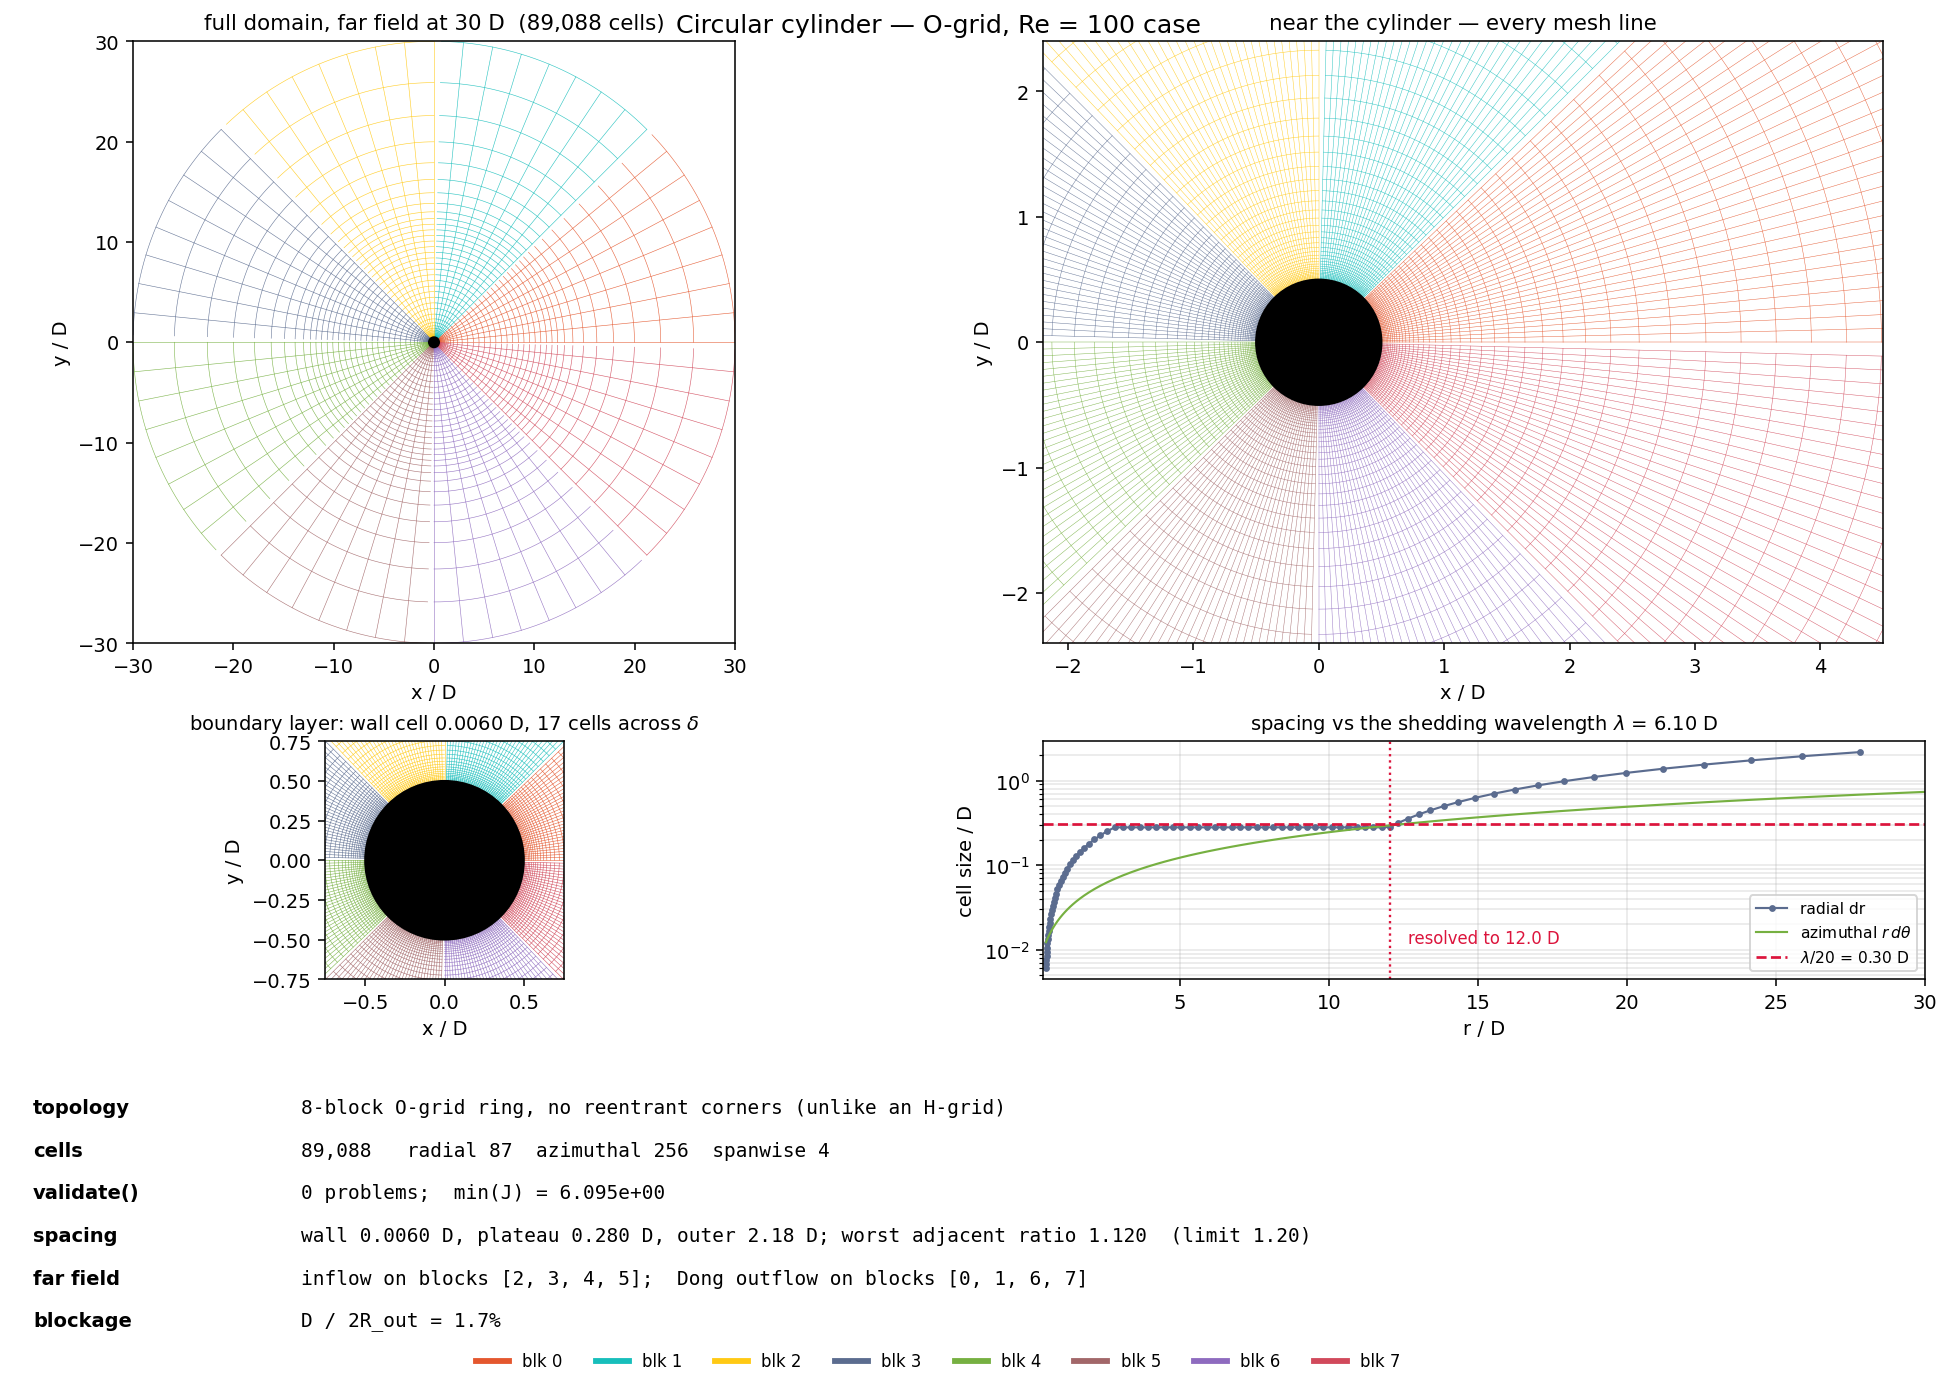
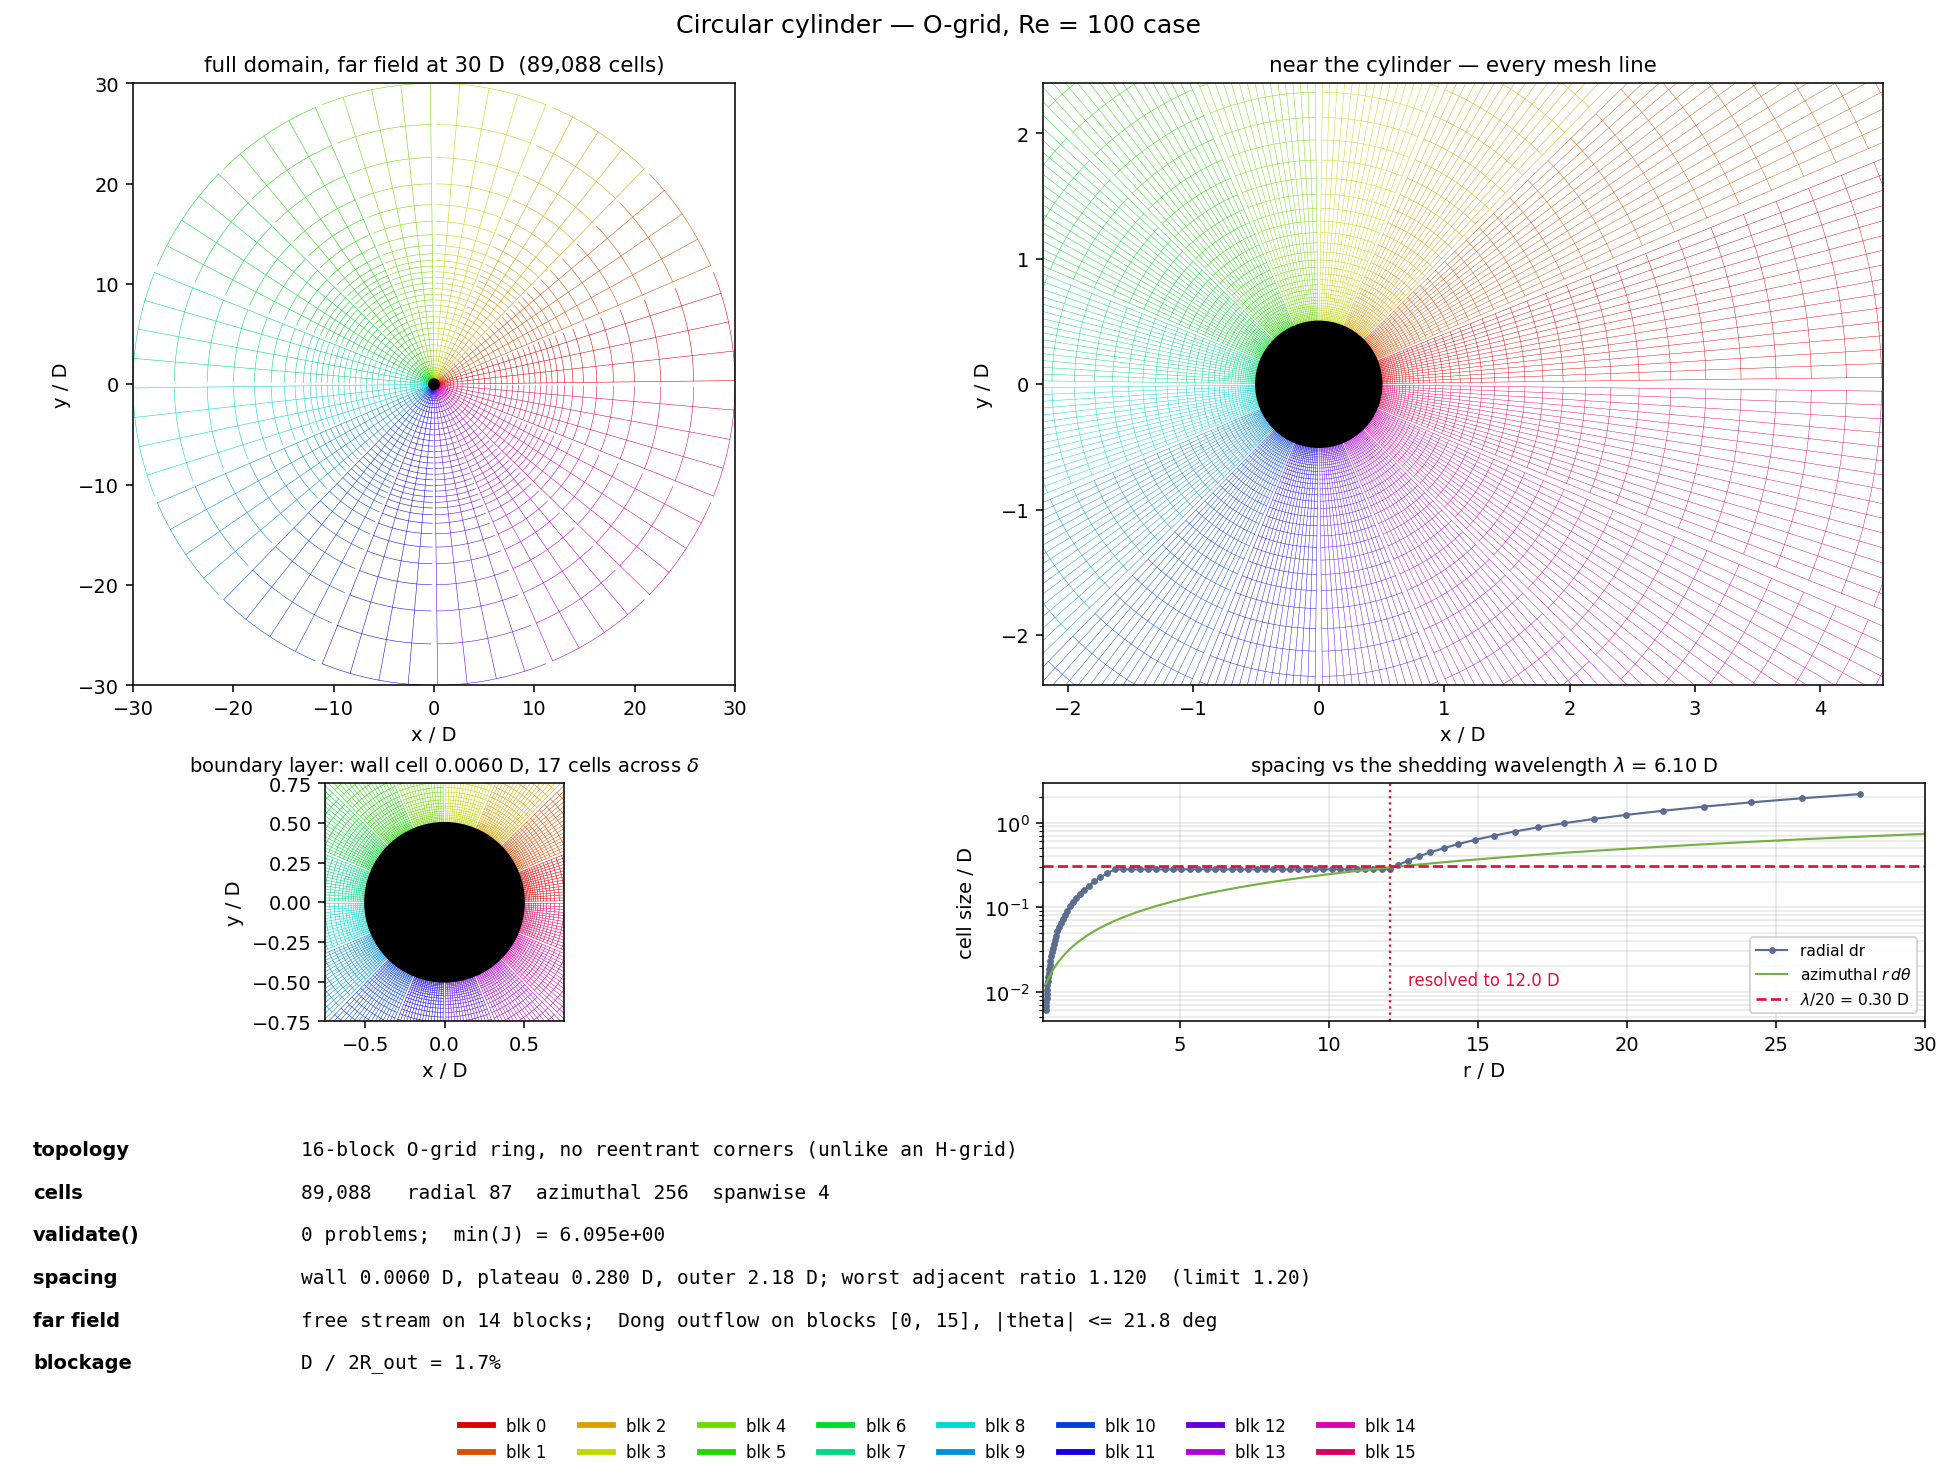
Grid figure for the 16-block decomposition, with the outflow arc measured on it
NBLK 8 -> 16 to match the new default, and the far-field row now reports the
measured arc -- Dong outflow on blocks [0, 15], |theta| <= 21.8 deg -- rather
than only listing block numbers, since the width of that arc is the thing that
was wrong.

Block colours: 8 hues repeated over 16 blocks put the same colour on blocks
sitting opposite each other, which reads as one block wrapping the ring. tab20
has 20 hues but alternates dark/light and left every other block nearly white on
these thin mesh lines. Evenly spaced hues at fixed saturation, darkened 15%,
keep all 16 legible.

diff --git a/plot_utility/plot_cylinder_grid.py b/plot_utility/plot_cylinder_grid.py
@@ -17,10 +17,15 @@ from matplotlib.lines import Line2D
 
 from cylinder_grid import cylinder_domain, D, R_CYL, outer_role
 
-NBLK = 8
+NBLK = 16
 ST = 0.164
-COL = ["#e4572e", "#17bebb", "#ffc914", "#5b6c8f",
-       "#76b041", "#a26769", "#8e6bbf", "#d1495b"]
+# One colour per block, and they must stay VISIBLE as well as distinct. With 16 blocks a
+# palette of 8 repeats, and two same-coloured blocks opposite each other read as one block
+# wrapping the ring. tab20 has 20 hues but alternates dark/light, so every other block came out
+# nearly white on these thin mesh lines. Evenly spaced hues at fixed saturation, darkened a
+# little, keep all NBLK equally legible.
+COL = [matplotlib.colors.to_hex(0.85 * np.array(c[:3]))
+       for c in plt.get_cmap("hsv")(np.linspace(0, 1, NBLK, endpoint=False))]
 
 
 def draw(ax, d, step_r=1, step_t=1, lw=0.3):
@@ -38,6 +43,11 @@ d, r, arc = cylinder_domain(nblk=NBLK, nz=4)
 dr = np.diff(r)
 roles = outer_role(d, NBLK)
 lam = D / ST
+# the actual outflow arc, measured off the grid rather than assumed -- it is what the far-field
+# leak was about, so it belongs on the figure
+_th = np.concatenate([np.degrees(np.arctan2(d.blocks[b].y[-1], d.blocks[b].x[-1])).ravel()
+                      for b in roles if roles[b] == "outflow"])
+arc_half = np.abs((_th + 180) % 360 - 180).max()
 
 fig = plt.figure(figsize=(15, 10))
 
@@ -84,15 +94,18 @@ rows = [("topology", f"{NBLK}-block O-grid ring, no reentrant corners (unlike an
                        f"{min(d.block_metrics_cached(b)[0].min() for b in range(NBLK)):.3e}"),
         ("spacing", f"wall {dr[0]:.4f} D, plateau {np.median(dr):.3f} D, outer {dr[-1]:.2f} D; "
                     f"worst adjacent ratio {worst:.3f}  (limit 1.20)"),
-        ("far field", f"inflow on blocks {ins};  Dong outflow on blocks {outs}"),
+        ("far field", f"free stream on {len(ins)} blocks;  Dong outflow on blocks {outs}, "
+                      f"|theta| <= {arc_half:.1f} deg"),
         ("blockage", f"D / 2R_out = {100*D/(2*r[-1]):.1f}%")]
 for i, (a_, b_) in enumerate(rows):
     ax.text(0.01, 0.92 - i*0.16, a_, fontsize=10, weight="bold", va="top")
     ax.text(0.15, 0.92 - i*0.16, b_, fontsize=10, va="top", family="monospace")
 
-fig.legend(handles=[Line2D([], [], color=COL[b], lw=3, label=f"blk {b}") for b in range(NBLK)],
-           fontsize=8.5, ncol=NBLK, loc="lower center", bbox_to_anchor=(0.5, 0.0), frameon=False)
-fig.suptitle("Circular cylinder — O-grid, Re = 100 case", fontsize=13)
+fig.legend(handles=[Line2D([], [], color=COL[b % len(COL)], lw=3, label=f"blk {b}")
+                    for b in range(NBLK)],
+           fontsize=8.5, ncol=min(NBLK, 8), loc="lower center", bbox_to_anchor=(0.5, -0.035),
+           frameon=False)
+fig.suptitle("Circular cylinder — O-grid, Re = 100 case", fontsize=13, y=1.01)
 out = "figures/cylinder_grid.png"
 fig.savefig(out, dpi=140, bbox_inches="tight")
 print(f"  {d.n_cells:,} cells, validate() {len(d.validate())} problems")
